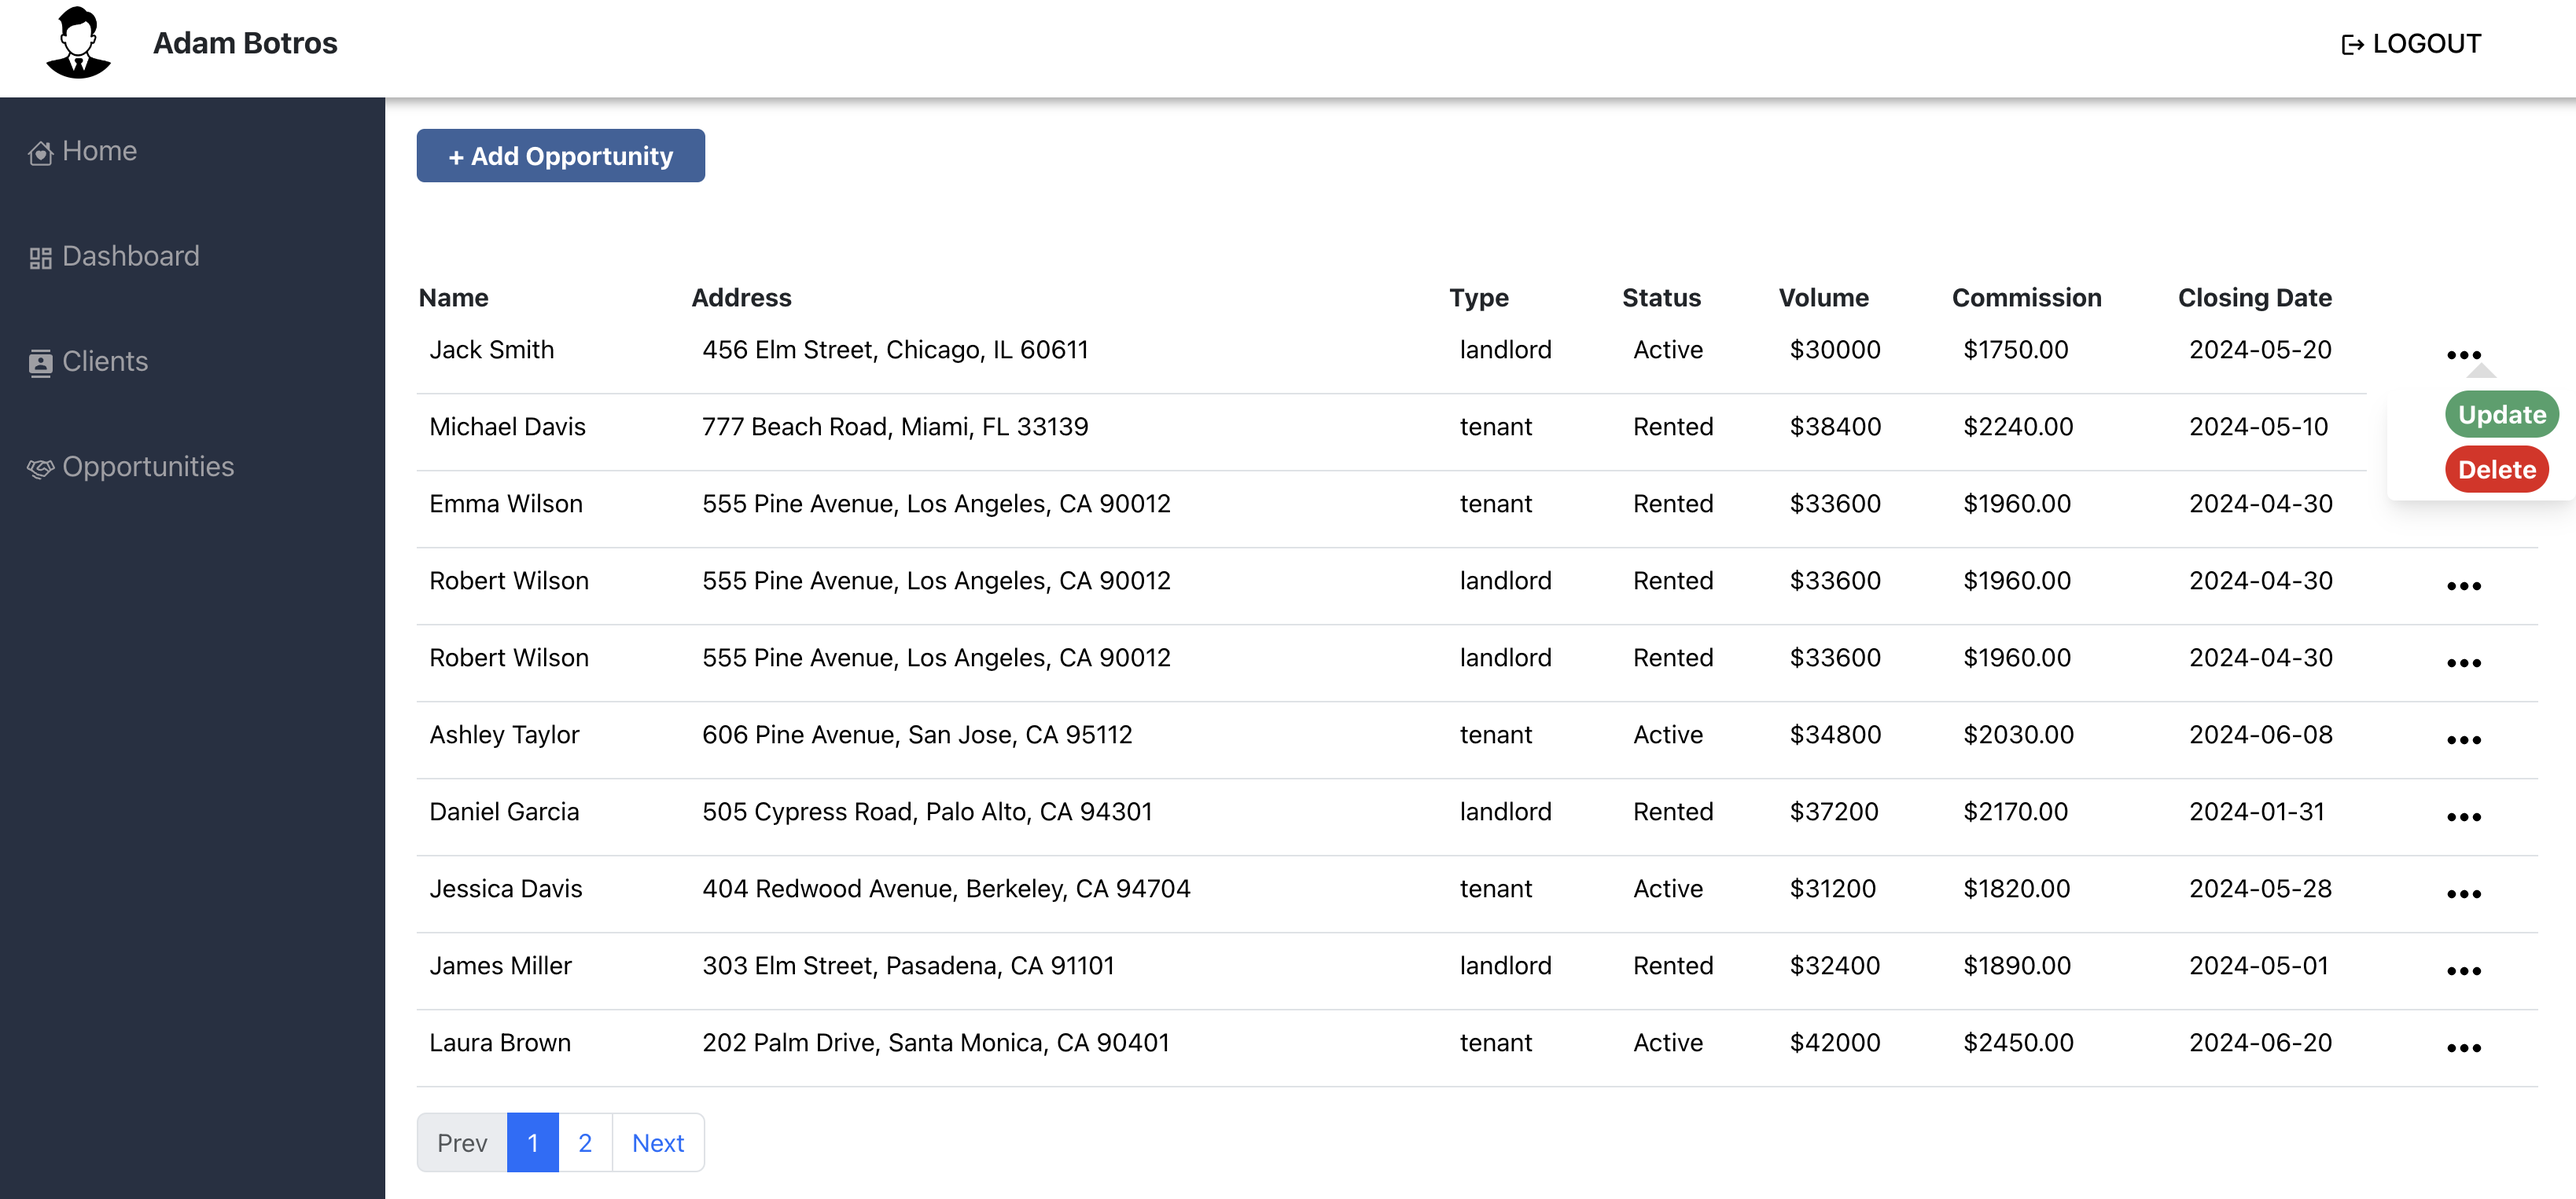
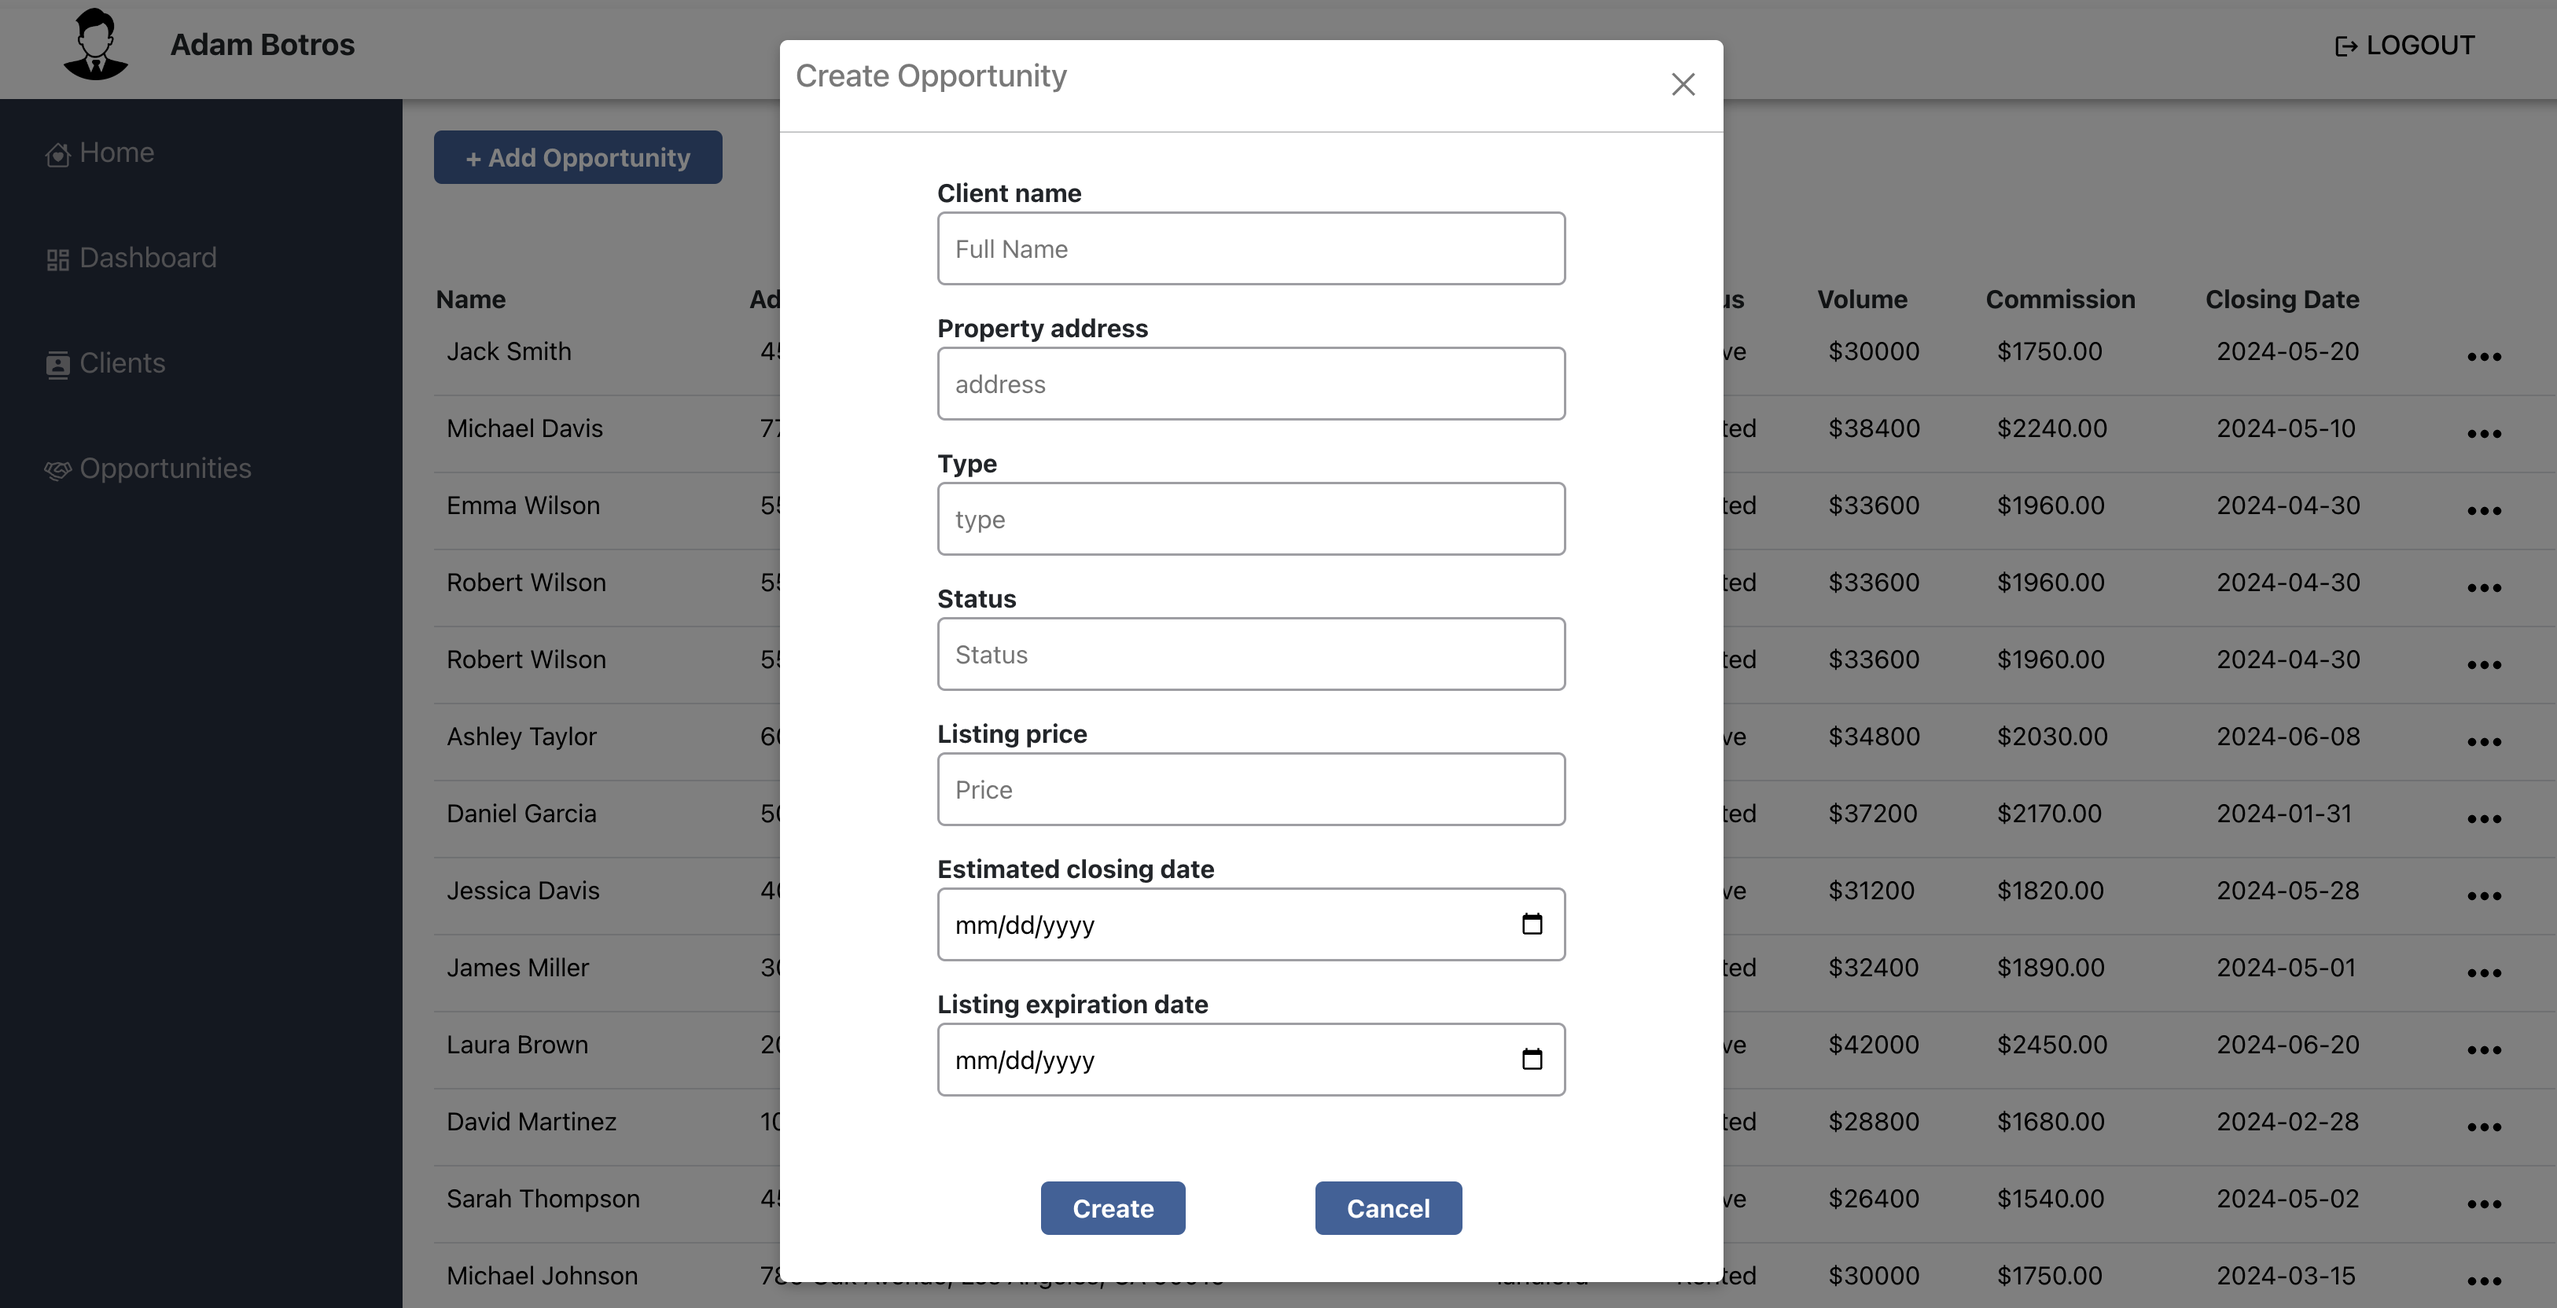
styling

diff --git a/frontend/frontend-admin/src/pages/Opportunities.js b/frontend/frontend-admin/src/pages/Opportunities.js
@@ -1,6 +1,5 @@
 import { useContext, useState } from "react";
 import { ListingContext } from "../App";
-import { Link } from "react-router-dom";
 
 import Nav from "../components/Nav";
 import Sidebar from "../components/Sidebar";
@@ -8,7 +7,6 @@ import Sidebar from "../components/Sidebar";
 import "bootstrap/dist/css/bootstrap.min.css";
 import { MdOutlineMoreHoriz } from "react-icons/md";
 
-import usePagination from "../util/usePagination";
 import AddOpportunity from "../components/AddOpportunity";
 import UpdateOpportunity from "../components/UpdateOpportunity";
 
@@ -18,17 +16,6 @@ function Opportunities() {
   const [openAddBtn, setOpenAddBtn] = useState(false);
   const [showEditModal, setShowEditModal] = useState(false);
   const [openDropdown, setOpenDropdown] = useState(null);
-
-  const itemsPerPage = 10;
-  const {
-    currentPage,
-    totalPages,
-    currentItems,
-    pageNumber,
-    changePage,
-    nextPage,
-    prevPage,
-  } = usePagination(opportunities, itemsPerPage);
 
   const style = {
     fontSize: "2em",
@@ -70,7 +57,7 @@ function Opportunities() {
             <th>Closing Date</th>
           </thead>
           <tbody>
-            {currentItems.map((opportunity, index) => (
+            {opportunities.map((opportunity, index) => (
               <tr className="" key={opportunity._id}>
                 <td className="">{opportunity.name}</td>
                 <td className="">{opportunity.address}</td>
@@ -118,52 +105,6 @@ function Opportunities() {
             ))}
           </tbody>
         </table>
-
-        <nav>
-          <ul className="pagination">
-            <li className={`page-item ${currentPage === 1 ? "disabled" : ""}`}>
-              <Link
-                key="prevPage"
-                to="#"
-                className="page-link"
-                onClick={prevPage}
-              >
-                Prev
-              </Link>
-            </li>
-
-            {pageNumber.map((n, i) => (
-              <li
-                className={`page-item ${currentPage === n + 1 ? "active" : ""}`}
-                key={i}
-              >
-                <Link
-                  key={i}
-                  to="#"
-                  className="page-link"
-                  onClick={() => changePage(n + 1)}
-                >
-                  {n + 1}
-                </Link>
-              </li>
-            ))}
-
-            <li
-              className={`page-item ${
-                currentPage === totalPages ? "disabled" : ""
-              }`}
-            >
-              <Link
-                key="nextPage"
-                to="#"
-                className="page-link"
-                onClick={nextPage}
-              >
-                Next
-              </Link>
-            </li>
-          </ul>
-        </nav>
       </div>
     </>
   );

diff --git a/frontend/frontend-admin/src/pages/Clients.js b/frontend/frontend-admin/src/pages/Clients.js
@@ -1,7 +1,6 @@
 import { useState } from "react";
 import { useContext } from "react";
 import { ListingContext } from "../App";
-import { Link } from "react-router-dom";
 
 import Nav from "../components/Nav";
 import Sidebar from "../components/Sidebar";
@@ -9,7 +8,6 @@ import Sidebar from "../components/Sidebar";
 import "bootstrap/dist/css/bootstrap.min.css";
 import { MdOutlineMoreHoriz } from "react-icons/md";
 
-import usePagination from "../util/usePagination";
 import AddClient from "../components/Addclient";
 import UpdateClient from "../components/UpdateClient";
 
@@ -24,17 +22,6 @@ function Clients() {
 
   // State to manage visibility of the update client info form
   const [showEditModal, setShowEditModal] = useState(false);
-
-  const itemsPerPage = 10;
-  const {
-    currentPage,
-    totalPages,
-    currentItems,
-    pageNumber,
-    changePage,
-    nextPage,
-    prevPage,
-  } = usePagination(clients, itemsPerPage); //custom pagination hook
 
   const style = {
     fontSize: "2em",
@@ -75,7 +62,7 @@ function Clients() {
             <th>Type</th>
           </thead>
           <tbody>
-            {currentItems.map((client, index) => (
+            {clients.map((client, index) => (
               <tr className="">
                 <td className="">{client.name}</td>
                 <td className="">{client.phone}</td>
@@ -117,52 +104,6 @@ function Clients() {
             ))}
           </tbody>
         </table>
-
-        <nav>
-          <ul className="pagination">
-            <li className={`page-item ${currentPage === 1 ? "disabled" : ""}`}>
-              <Link
-                key="prevPage"
-                to="#"
-                className="page-link"
-                onClick={prevPage}
-              >
-                Prev
-              </Link>
-            </li>
-
-            {pageNumber.map((n, i) => (
-              <li
-                className={`page-item ${currentPage === n + 1 ? "active" : ""}`}
-                key={i}
-              >
-                <Link
-                  key={i}
-                  to="#"
-                  className="page-link"
-                  onClick={() => changePage(n + 1)}
-                >
-                  {n + 1}
-                </Link>
-              </li>
-            ))}
-
-            <li
-              className={`page-item ${
-                currentPage === totalPages ? "disabled" : ""
-              }`}
-            >
-              <Link
-                key="nextPage"
-                to="#"
-                className="page-link"
-                onClick={nextPage}
-              >
-                Next
-              </Link>
-            </li>
-          </ul>
-        </nav>
       </div>
     </>
   );

diff --git a/frontend/frontend-admin/src/components/UpdateClient.js b/frontend/frontend-admin/src/components/UpdateClient.js
@@ -20,8 +20,8 @@ function UpdateClient({ close }) {
         headers: { "Content-Type": "application/json" },
         body: JSON.stringify(updateForm),
       });
-      setUpdateForm({ _id: null, name: "", phone: "", email: "", tag: "" });
-      close();
+      setUpdateForm({ _id: null, name: "", phone: "", email: "", tag: "" }); // clear form
+      close(); //close after submit
     } catch (error) {
       console.error(error);
     }

diff --git a/frontend/frontend-admin/src/App.js b/frontend/frontend-admin/src/App.js
@@ -52,7 +52,7 @@ function App() {
   // console.log(rentedThisYear);
 
   useEffect(() => {
-    //Calculate the number of properties rented this year
+    //array of properties rented this year
     const numProperties = () => {
       const currentYear = new Date().getFullYear();
       //   console.log(currentYear);

diff --git a/README.md b/README.md
@@ -1,12 +1,12 @@
 # Real Estate Management System
 
-A comprehensive Real Estate Management System built with React, designed for Agents to manage clients and opportunities efficiently. The application includes user authentication, client management, and opportunity tracking features.
+A full stack comprehensive Real Estate Management System built with React and Node.js, designed for Agents to manage clients and opportunities efficiently. The application includes user authentication, client management, opportunity, and performance tracking features.
 
 ![dashboard](image.png)
 
-![opportunities](image-2.png)
+![new-client](image-1.png)
 
-![add-client](image-1.png)
+![new-opportunity](image-2.png)
 
 ## Features
 
